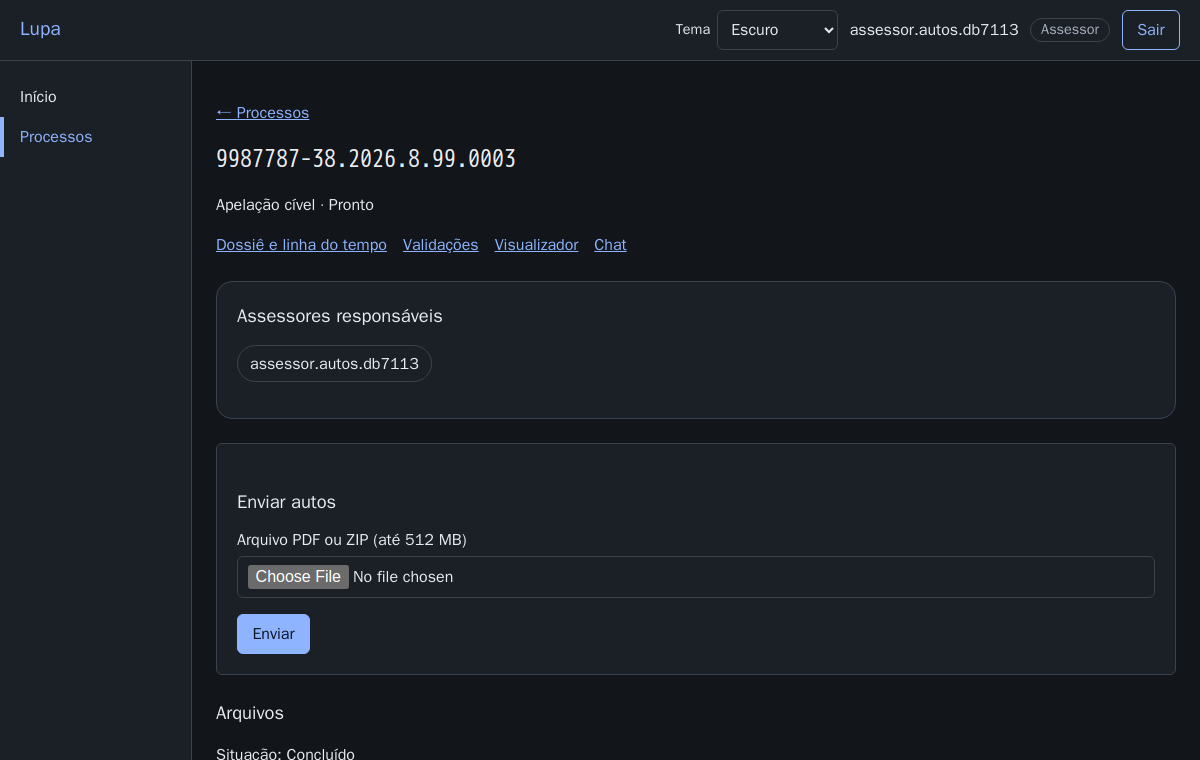
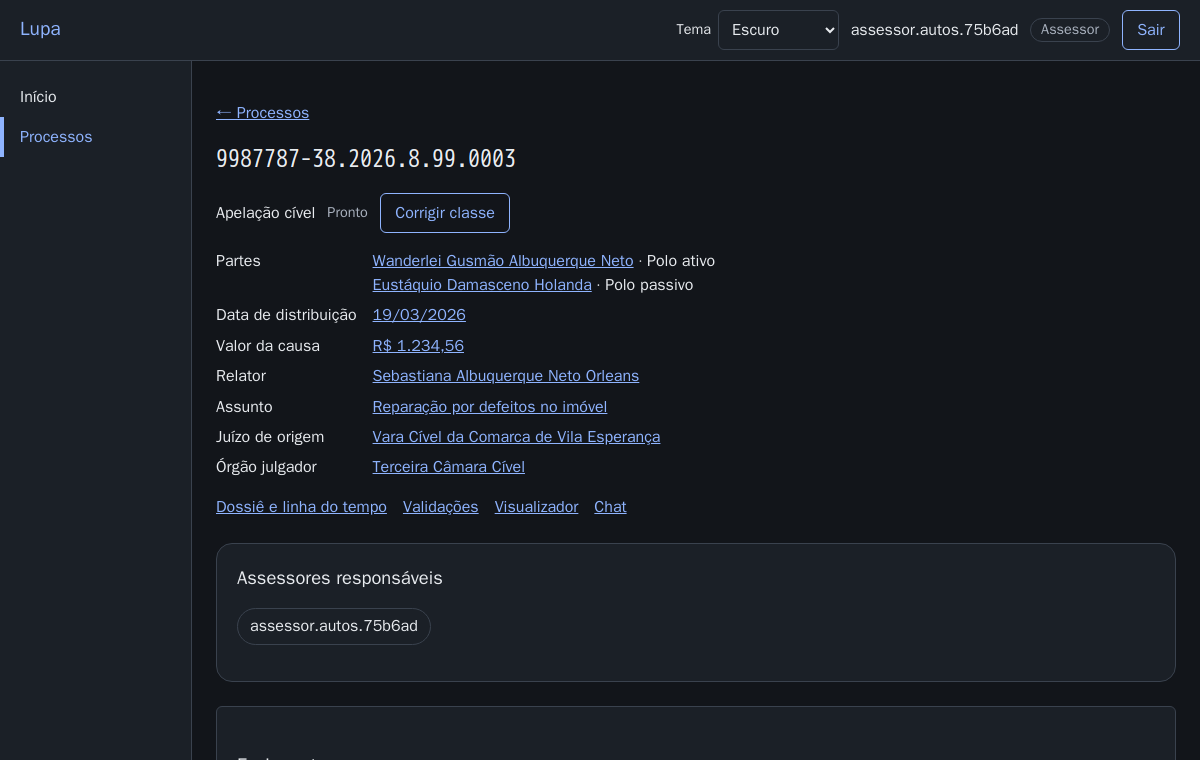
T8.7 Documenta o cadastro pelo arquivo e atualiza as capturas

diff --git a/docs/planos/plano_cadastro_pelo_arquivo.md b/docs/planos/plano_cadastro_pelo_arquivo.md
@@ -1,6 +1,6 @@
 # Plano — cadastro do processo pelo arquivo
 
-15 de novembro de 2026 · Estado: **aguardando aprovação** · Atende a
+15 de novembro de 2026 · Estado: **executado** · Atende a
 [especificação da 0.2](../especificacao/0.2/especificacao.md): RF-PRO-01, RF-PRO-06, RF-ING-01,
 RF-ING-02, RF-ING-04, RF-FAT-01, RF-FAT-04.
 
@@ -50,7 +50,7 @@ As colunas novas de `v_processo` entram no fim, por `CREATE OR REPLACE VIEW`.
 | `intranet/web/e2e/testes/processos.spec.ts`, `acessibilidade.spec.ts`, `seguranca.spec.ts`, `intranet/web/e2e/capturas.spec.ts` | cadastro pelo envio |
 | `docs/guias/guia-assessor.md`, `docs/imagens/processos.png`, `docs/imagens/processo.png` | passo 2 e capturas |
 | `docs/sistema/ingestao.md`, `docs/sistema/modelo-de-dados.md`, `docs/sistema/front.md`, `docs/sistema/sinteticos.md`, `docs/arquitetura.md` | comportamento novo |
-| `docs/decisoes/registro.md` | D1 a D12 |
+| `docs/decisoes/registro.md` | D1 a D14 |
 | `docs/adr/0017-cadastro-pelo-arquivo.md`, `docs/adr/README.md` | ADR novo, ligado ao 0003 |
 | `docs/planos/plano_0.2_execucao.md` | A3 passa a remeter a este plano para o envio que cria processo |
 | `docs/planos/tarefas_0.2.md` | fase 8 com as tarefas deste plano |
@@ -239,43 +239,43 @@ As colunas novas de `v_processo` entram no fim, por `CREATE OR REPLACE VIEW`.
 
 Cada teste cita o requisito na docstring. U: unitário; I: integração.
 
-- [ ] I: `v0002` sobe e desce; `v_processo` devolve criador da primeira linha e os campos de
+- [x] I: `v0002` sobe e desce; `v_processo` devolve criador da primeira linha e os campos de
   correção (RF-PRO-06).
-- [ ] U: A2 com rótulo, com número único sem rótulo, com dois números sem rótulo, com dígito
+- [x] U: A2 com rótulo, com número único sem rótulo, com dois números sem rótulo, com dígito
   inválido e sem número (RF-PRO-01).
-- [ ] U: A2 reconhece as cinco classes, recusa "apelação criminal" e texto fora da tabela
+- [x] U: A2 reconhece as cinco classes, recusa "apelação criminal" e texto fora da tabela
   (RF-PRO-01).
-- [ ] U: A1 com executor injetado: PDF, ZIP, tipo desconhecido, motivo de quarentena e tempo
+- [x] U: A1 com executor injetado: PDF, ZIP, tipo desconhecido, motivo de quarentena e tempo
   esgotado (RF-PRO-01, RF-ING-02).
-- [ ] I: o subprocesso de A1 falha ao abrir conexão e não recebe variável com credencial
+- [x] I: o subprocesso de A1 falha ao abrir conexão e não recebe variável com credencial
   (RF-ING-04).
-- [ ] I: envio de autos sintéticos de cada classe cria o processo com número, classe, criador,
+- [x] I: envio de autos sintéticos de cada classe cria o processo com número, classe, criador,
   responsável e arquivo `recebido`, com `processo_criado` e `upload` na auditoria (RF-PRO-01,
   RF-ING-01).
-- [ ] I: capa sem classe devolve 422 com `faltando`; o reenvio com `classe` cria o processo;
+- [x] I: capa sem classe devolve 422 com `faltando`; o reenvio com `classe` cria o processo;
   entre os dois nada foi gravado (RF-PRO-01).
-- [ ] I: número informado com dígito inválido é recusado (RF-PRO-01).
-- [ ] I: número já cadastrado anexa o arquivo, mantém a classe e devolve `processo_criado`
+- [x] I: número informado com dígito inválido é recusado (RF-PRO-01).
+- [x] I: número já cadastrado anexa o arquivo, mantém a classe e devolve `processo_criado`
   falso; os mesmos bytes devolvem 200 com `duplicado` (RF-PRO-01, RF-ING-01).
-- [ ] I: número de processo descartado devolve 409 (RF-PRO-01).
-- [ ] I: PDF com senha devolve 422 `senha` e nenhuma linha nova em hub, link ou satélite
+- [x] I: número de processo descartado devolve 409 (RF-PRO-01).
+- [x] I: PDF com senha devolve 422 `senha` e nenhuma linha nova em hub, link ou satélite
   (RF-PRO-01, RF-ING-02).
-- [ ] I: dois envios simultâneos do mesmo número novo resultam em um processo e dois arquivos
+- [x] I: dois envios simultâneos do mesmo número novo resultam em um processo e dois arquivos
   (RF-PRO-01).
-- [ ] I: `POST /processos` devolve 405 (RF-PRO-01).
-- [ ] U: `capa.extrair` gera os seis candidatos com o intervalo do valor; valor e data
+- [x] I: `POST /processos` devolve 405 (RF-PRO-01).
+- [x] U: `capa.extrair` gera os seis candidatos com o intervalo do valor; valor e data
   inválidos não geram candidato (RF-FAT-01).
-- [ ] I: ingestão do sintético de referência grava os seis fatos do gabarito com evidência que
+- [x] I: ingestão do sintético de referência grava os seis fatos do gabarito com evidência que
   confere, e `data_distribuicao` aparece na linha do tempo (RF-FAT-01).
-- [ ] I: fato da capa corrigido continua vigente depois do reprocessamento (RF-FAT-03,
+- [x] I: fato da capa corrigido continua vigente depois do reprocessamento (RF-FAT-03,
   RF-ING-08).
-- [ ] I: correção de classe grava a linha, mantém o criador, refaz os achados para a nova classe
+- [x] I: correção de classe grava a linha, mantém o criador, refaz os achados para a nova classe
   e registra `classe_corrigida`; classe igual não grava; descartado devolve 409 (RF-PRO-06).
-- [ ] U (front): `NovoProcesso` envia, mostra o complemento só dos campos que faltam e reenvia
+- [x] U (front): `NovoProcesso` envia, mostra o complemento só dos campos que faltam e reenvia
   o mesmo arquivo; `enviarProcesso` monta a query (RF-PRO-01).
-- [ ] U (front): `CabecalhoProcesso` mostra partes com polo, os seis dados e a classe anterior
+- [x] U (front): `CabecalhoProcesso` mostra partes com polo, os seis dados e a classe anterior
   (RF-FAT-04, RF-PRO-06).
-- [ ] Medição dos sintéticos dentro da meta do RNF-02 com os seis tipos novos.
+- [x] Medição dos sintéticos dentro da meta do RNF-02 com os seis tipos novos.
 
 Revisão manual: fluxo E2E do Playwright (`processos.spec.ts`), capturas dos guias e conferência
 da tela no navegador.
@@ -285,3 +285,5 @@ da tela no navegador.
 1. Commits em `feat/versao-0.2`, um por tarefa.
 2. `docker compose up -d --build --wait`.
 3. `docker compose exec api alembic -c pipeline/src/lupa_pipeline/migrations/alembic.ini upgrade head`.
+
+Os resultados dos testes e da medição dos autos sintéticos estão na [fase 8 do registro de tarefas](tarefas_0.2.md#fase-8--cadastro-pelo-arquivo).

diff --git a/docs/planos/tarefas_0.2.md b/docs/planos/tarefas_0.2.md
@@ -463,15 +463,24 @@ Execução do [plano de cadastro pelo arquivo](plano_cadastro_pelo_arquivo.md).
 - [x] **T8.1** Ampliar os tipos de fato e preservar o criador no histórico de classe. RF-PRO-06, RF-FAT-01.
   - `pytest pipeline/tests/dominio/test_migracao_0002.py --no-cov` no worker com PostgreSQL. A asserção dos seis novos tipos falhou antes da revisão. Com a migração, 1 teste passou, incluindo subida, duas correções, descida e nova subida.
 - [x] **T8.2** Identificar número CNJ e classe no PDF ou ZIP em sandbox. RF-PRO-01, RF-ING-02, RF-ING-04.
-  - `pytest pipeline/tests/ingestao/test_identificacao.py --no-cov` no worker. No vermelho, 18 falhas e 5 testes passaram. No verde, os 23 passaram, inclusive a sonda de rede e ambiente executada no subprocesso.
+  - `pytest pipeline/tests/ingestao/test_identificacao.py --no-cov` no worker. No vermelho, 18 falhas e 5 testes passaram. Os 23 casos iniciais passaram, inclusive a sonda de rede e ambiente executada no subprocesso. Outros três casos reproduziram falhas de associação do CNJ ao rótulo e passaram após a correção, totalizando 26.
 - [x] **T8.3** Criar ou localizar o processo pelo upload, tratar o complemento e retirar o cadastro manual. RF-PRO-01, RF-ING-01, RF-ING-02.
   - O primeiro teste de envio falhou com 405 em vez de 201. Na API, `pytest intranet/api/tests/api/test_cadastro_arquivo.py intranet/api/tests/auditoria/test_eventos_reais.py --no-cov` passou nos 15 casos com integração exigida. Dois envios simultâneos com o mesmo CNJ criaram um processo e dois arquivos.
 - [x] **T8.4** Extrair, medir e exibir os fatos da capa com evidência nos autos sintéticos. RF-FAT-01, RF-FAT-03, RF-ING-08, RNF-02.
   - O gabarito tinha zero fatos na capa e o dossiê não tinha o campo `dados_capa`. Com as marcas de evidência e o extrator, `pytest pipeline/tests/sinteticos --no-cov` passou nos 106 testes. `test_capa.py` e `test_reprocessamento.py` conferem os offsets, a janela de páginas, a coexistência de fontes e a preservação da revisão humana.
   - `pytest pipeline/tests/ingestao/test_calibracao.py --no-cov` mediu o PDF liso, o PDF com índice e o ZIP. Com a semente 88, o recall dos eventos e das fronteiras foi de 100% nos três formatos e a precisão de datas atingiu a meta de 99%. Na API, `test_ponta_a_ponta.py` confronta as cinco classes com os gabaritos no PostgreSQL e no MinIO.
+  - O PDF liso da semente de referência `semente_01`, regenerado com a nova capa, terminou em 797,46 s para 198 páginas. O banco registrou os seis tipos da capa. A medição encontrou 18 de 18 eventos, 8 de 8 datas (100% de precisão e recall), 44 de 44 fronteiras e tipos de peça e zero evidências divergentes do trecho literal.
+  - O teste de injeção do dossiê marcou os novos valores da capa como texto livre. Após exigir correspondência de cada valor com o gabarito, o fato vigente, a página, o intervalo e o hash da evidência, `pytest intranet/api/tests/agente/test_injecao_agente.py -k dossie_do_processo_sintetico --no-cov` passou com PostgreSQL e MinIO. A varredura de texto livre continua a cobrir os demais campos.
 - [x] **T8.5** Corrigir a classe, preservar a autoria e recalcular os achados. RF-PRO-06.
   - `pytest intranet/api/tests/api/test_classe.py --no-cov` respondeu 404 antes da rota. Os três casos passaram com a nova rota, inclusive os dois papéis, repetição sem nova linha e recusa após descarte. A bateria com as regressões de lista, responsáveis, abertura e upload passou nos 28 testes.
 - [x] **T8.6** Enviar os autos pela interface, completar a identificação e conferir a ficha no cabeçalho. RF-PRO-01, RF-PRO-06, RF-FAT-04.
   - Os quatro casos de `cadastro.test.ts` falharam antes da implementação e passaram com o envio pelo mesmo `File` e o cabeçalho com evidências. `docker build --target verificacao intranet/web` passou em lint, formatação, tipagem e 75 testes.
-  - `bash intranet/web/scripts/e2e.sh` passou nos 36 testes em Chromium, incluindo complemento, cadastro automático, anexo, duplicata e correção de classe. O envio de 500 MB levou 11,1 s. O axe percorreu dez telas em cada tema com zero violações graves ou críticas.
-- [ ] **T8.7** Atualizar arquitetura, decisão, guia, capturas e documentação técnica. RF-DOC-01, RF-DOC-03.
+  - `bash intranet/web/scripts/e2e.sh` passou nos 36 testes em Chromium, incluindo complemento, cadastro automático, anexo, duplicata e correção de classe. Na repetição com a imagem final, os 36 testes passaram em 3,7 min. O envio de 500 MB levou 13,7 s e o maior intervalo entre quadros foi de 17 ms. O axe percorreu dez telas em cada tema com zero violações graves ou críticas.
+- [x] **T8.7** Atualizar arquitetura, decisão, guia, capturas e documentação técnica. RF-DOC-01, RF-DOC-03.
+  - `bash intranet/web/scripts/capturas.sh --grep 'cadastro pelo arquivo e cabeçalho do processo' --no-deps` gerou as duas imagens do guia em uma stack sintética. A revisão visual conferiu o seletor de arquivo, o botão de correção de classe, as partes com polo e os seis campos com links. A conferência encontrou os 102 destinos de links locais nos 15 documentos alterados.
+
+### Verificação integrada da fase 8
+
+- `docker compose up -d --build --wait` subiu os sete serviços de desenvolvimento. A aplicação de `alembic upgrade head` no contêiner da API e a consulta `alembic current` confirmaram `0002 (head)`.
+- No `scripts/verificar.sh`, Ruff, formatação e mypy estrito passaram nos dois pacotes. A pipeline passou nos 728 testes com 95,69% de cobertura, e a API passou nos 272 selecionados com 98,25%. A configuração padrão da API exclui três testes marcados como `carga` ou `llm`.
+- `LUPA_EXIGIR_CABECALHOS=1 bash scripts/verificar.sh` terminou com código 0. Passaram os seis testes de ingestão ponta a ponta, o build do front, os cabeçalhos de quatro rotas e o isolamento de rede do worker. O corpus detectou 16 de 16 injeções textuais, com zero falsos positivos. Nos 16 cenários do agente com cliente roteirizado, houve zero vazamentos e zero instruções embutidas executadas. A suíte Playwright rodou separadamente pelo comando de T8.6.

diff --git a/docs/sistema/ingestao.md b/docs/sistema/ingestao.md
@@ -1,6 +1,10 @@
 # Ingestão de autos
 
-A API recebe `POST /api/processos/{id}/arquivos`. O arquivo novo recebe um identificador e HTTP 201. O reenvio dos mesmos bytes no mesmo processo devolve o identificador existente e HTTP 200. O limite de upload vem de `LUPA_UPLOAD_LIMITE_BYTES`. O storage guarda o original cifrado. A view `v_fila_ingestao` seleciona as pendências.
+A API recebe o corpo de `POST /api/processos/arquivos?nome=...` em um temporário e calcula o SHA-256 durante o envio. O sandbox inspeciona o PDF e extrai as primeiras páginas. Em ZIP, inventaria as entradas e lê o primeiro PDF. A janela padrão é de três páginas e o limite de tempo é de 30 segundos (`LUPA_IDENTIFICACAO_PAGINAS` e `LUPA_IDENTIFICACAO_TEMPO_SEGUNDOS`).
+
+Na primeira página, um número CNJ válido após um rótulo tem precedência. Se a página inicial não tiver rótulo de número, um único CNJ válido distinto nas páginas lidas identifica o processo. Um rótulo com número inválido exige complemento, mesmo que haja um CNJ válido em uma referência a outro processo. A classe vem da linha rotulada na capa. Uma identificação incompleta devolve HTTP 422 com o que foi lido, os campos faltantes e os números encontrados. O cliente reenvia os bytes com o complemento na query. O temporário é removido ao fim de cada tentativa. A recusa estrutural também devolve 422, inclusive quando o cliente forneceu os dois campos.
+
+A API serializa o cadastro pelo número. Cria o processo ou anexa o arquivo ao processo existente, preservando a classe corrente. Um processo descartado devolve 409. Para enviar diretamente ao processo aberto, use `POST /api/processos/{id}/arquivos`. Em ambos os fluxos, o arquivo novo recebe HTTP 201 e o reenvio dos mesmos bytes no mesmo processo, HTTP 200 com o identificador existente. O limite de envio vem de `LUPA_UPLOAD_LIMITE_BYTES`. O storage guarda o original cifrado e a view `v_fila_ingestao` seleciona as pendências.
 
 ## Processamento e retomada
 
@@ -11,6 +15,8 @@ O inventário distingue ZIP por peça, PDF com marcadores ou índice e PDF liso.
 Cada página tem texto normalizado, origem da extração, blocos, coordenadas e sinalizações. O roteador seleciona texto nativo, OCR ou combinação para páginas híbridas. O saneamento identifica, entre outros sinais, texto fora da página, instrução em metadado e texto com baixa visibilidade. A revisão humana pode abrir o original. Os lotes já concluídos e suas páginas são recuperados após interrupção.
 
 ## Peças, partes e fatos
+
+Nas primeiras páginas de cada arquivo o worker procura relator, órgão julgador, assunto, valor da causa, juízo de origem e distribuição. Cada fato é comum ao processo e tem evidência no intervalo do valor. O valor da causa é decimal em texto e a distribuição é data ISO. A ficha pode mostrar valores divergentes com suas respectivas fontes. A versão `civel-0.3.0` dos padrões aciona a reextração dos arquivos já processados.
 
 O índice reúne as páginas de cada peça. A classificação combina títulos, fórmulas e assinaturas das peças cíveis. Uma reclassificação manual fica no histórico e orienta o reprocessamento. Os extratores usam qualificações da petição, da decisão e do recurso para reconhecer as partes. Cada fato contém o tipo, o valor, o sujeito, a confiança e a origem. Antes de armazenar o fato, o extrator confere a igualdade entre o trecho e o intervalo do texto normalizado.
 

diff --git a/docs/arquitetura.md b/docs/arquitetura.md
@@ -14,10 +14,10 @@ O Lupa atende um gabinete cível de segundo grau. O assessor e o desembargador c
 
 ## Percurso de um arquivo
 
-1. O usuário cadastra o número e a classe. A API valida o dígito CNJ e informa o processo existente se o número se repetir.
-2. Ao receber PDF ou ZIP, a API calcula o SHA-256, deduplica por processo e arquivo, cifra os bytes e registra a recepção. A view da fila passa a apresentar o arquivo.
+1. O usuário envia o PDF ou ZIP. Ainda no temporário, a API executa a inspeção e lê a capa em subprocessos com limites, ambiente filtrado e sockets bloqueados. Valida o dígito CNJ e identifica a classe pelo rótulo. Se faltar identificação, o navegador reenvia o mesmo arquivo com o complemento. Uma recusa estrutural encerra a tentativa.
+2. Sob trava transacional pelo número CNJ, a API localiza o processo ou o cria com sua chave de dados. Deduplica pelo SHA-256 dos bytes, cifra o arquivo com a chave do processo e registra a recepção e a auditoria. A view da fila passa a apresentar o arquivo.
 3. Um worker mantém o lock de sessão na conexão física e consome a fila em ordem de recebimento. O ambiente de parsing limita memória, CPU e tempo do subprocesso. A extração combina texto nativo e OCR conforme a página, guarda evidências e marca conteúdo suspeito.
-4. A classificação identifica as peças. Os extratores localizam partes e fatos e conferem os offsets contra o texto da página. O catálogo seleciona as regras pela classe e avalia os fatos de cada recorrente.
+4. A classificação identifica as peças. Os extratores localizam partes e fatos, inclusive os seis campos da capa, e conferem os offsets contra o texto da página. O catálogo seleciona as regras pela classe e avalia os fatos de cada recorrente. Uma correção de classe preserva o criador e recalcula os achados na mesma transação.
 5. No dossiê e no visualizador, a pessoa abre a evidência para conferir a página. Uma correção grava outra versão do fato e recalcula os achados. Uma reexecução respeita a classificação manual e os fatos confirmados ou corrigidos.
 6. O chat consulta o processo aberto e verifica as citações da resposta antes de mostrá-las. O registro de auditoria guarda atos, identificadores e metadados de uso. O texto dos autos e das conversas tem armazenamento cifrado próprio.
 

diff --git a/docs/sistema/modelo-de-dados.md b/docs/sistema/modelo-de-dados.md
@@ -11,6 +11,8 @@ A revisão Alembic `v0001_data_vault` instala o esquema da 0.2 em uma base nova.
 
 ## Vigência e histórico
 
+A revisão `0002` amplia o CHECK de `hub_fato.tipo` com os seis dados da capa. Em `sat_processo_dados`, cada linha guarda a classe e o usuário que a registrou. A view `v_processo` lê o criador da primeira linha e a classe da última. Quando há correção, expõe a classe penúltima, a chave e o identificador de quem corrigiu e o instante da alteração.
+
 O banco gera `load_dts` com seu relógio. Para o mesmo pai e subchave, o trigger garante a ordem crescente mesmo perante recuo do relógio. As views de leitura apresentam a versão atual. `v_fato_historico` e `v_achado_historico` sustentam a consulta de versões anteriores na interface. A correção preserva o identificador do fato e registra a evidência vigente. Um fato só pode ser criado com evidência de origem.
 
 O sujeito de fato ou achado é o hex da chave da parte. O valor vazio designa informação comum ao processo. O nome normalizado da parte identifica o hub por HMAC com a DEK do processo. A identidade e os dados sensíveis residem em satélites cifrados. O banco recusa alterações e remoções diretas nos registros protegidos. O descarte segue a função com privilégios específicos e elimina o conteúdo de um único processo.
@@ -20,5 +22,7 @@ O sujeito de fato ou achado é o hex da chave da parte. O valor vazio designa in
 `link_processo_responsavel` e sua vigência alimentam `v_responsavel`. O desembargador atribui ou remove assessores ativos. O cadastro do gabinete permite a ambas as funções consultar o acervo. A responsabilidade indica a distribuição de trabalho.
 
 ## Migração
+
+O downgrade para `0001` restaura a definição anterior da view e do CHECK. Se houver fatos de um dos seis tipos novos, o PostgreSQL recusa o CHECK anterior e desfaz a transação, preservando os dados.
 
 A partir da raiz, use `make migrate` contra o banco da 0.2. O piloto 0.1 tem esquema e cadeia de revisões próprios. O registro histórico de T1.7 conserva o resultado de seus testes de responsáveis, e T3.6 verifica o vínculo atual. [Histórico das tarefas](../planos/tarefas_0.2.md).

diff --git a/docs/adr/0017-cadastro-pelo-arquivo.md b/docs/adr/0017-cadastro-pelo-arquivo.md
@@ -1,0 +1,31 @@
+# ADR 0017 — Cadastro do processo pelo arquivo
+
+| Status | Data | Responsável |
+| --- | --- | --- |
+| Aceito | 2026-11-15 | Projeto Lupa |
+
+## Contexto
+
+O número CNJ compõe a identidade do arquivo, das páginas e dos fatos. O armazenamento do original usa a chave de dados do processo. O cadastro precisa identificar o processo antes do lacre.
+
+## Restrições
+
+A leitura da capa ocorre durante o envio de PDF ou ZIP. Os parsers trabalham com limites de memória, CPU e tempo, em subprocessos sem credenciais e com criação de sockets bloqueada. A API tem acesso a redes diferentes das do worker. A especificação admite esse isolamento para a identificação.
+
+## Alternativas consideradas
+
+O cadastro manual exigia que o usuário transcrevesse número e classe em todos os envios. Adiar a identificação integralmente para o worker exigiria outro local para guardar o original enquanto a chave do processo fosse desconhecida.
+
+## Decisão
+
+A API inspeciona o arquivo temporário e lê as primeiras páginas com o sandbox existente. Quando falta identificação, devolve os dados lidos e o navegador reenvia o mesmo arquivo com o complemento. Uma trava transacional pelo número serializa a criação. Um processo existente conserva sua classe e sua chave. O worker extrai os seis campos da capa como fatos com evidência. As correções de classe entram no histórico do processo e acionam as validações na mesma transação.
+
+## Consequências
+
+O primeiro envio depende do tempo de leitura da capa. Uma tentativa incompleta transfere os bytes novamente. O servidor remove o temporário ao fim de cada tentativa. A inspeção pode recusar o arquivo antes da criação do processo. A fila e o lacre passam a receber os arquivos já associados ao processo identificado.
+
+## Fontes
+
+- [Especificação da 0.2, decisões 29 a 39](../especificacao/0.2/especificacao.md)
+- [Plano e algoritmos A1 a A6](../planos/plano_cadastro_pelo_arquivo.md)
+- [ADR 0003, sandbox de parsing](0003-sandbox-de-parsing-por-subprocesso.md)

diff --git a/docs/decisoes/registro.md b/docs/decisoes/registro.md
@@ -801,6 +801,27 @@ para a 0.2, mantém a consulta das versões anteriores pela interface. A execuç
 o resultado histórico de T1.7 na suíte da 0.1. A distribuição de responsáveis passa a ser
 verificada na 0.2 pelo vínculo, pela view e pelas rotas atuais. [Tarefas e testes](../planos/tarefas_0.2.md).
 
+### Cadastro pelo arquivo — 15/11/2026
+
+| Decisão | Regra que passa a valer |
+| --- | --- |
+| D1 | A inspeção e a leitura inicial ocorrem no temporário da API, antes do lacre por processo. |
+| D2 | O CNJ rotulado da página inicial tem precedência. Sem ele, a identificação exige um único número válido distinto nas páginas lidas. |
+| D3 | A classe vem do campo rotulado e da tabela de variantes cíveis. |
+| D4 | O envio incompleto devolve o que falta. O navegador reenvia o mesmo arquivo e os valores informados prevalecem. |
+| D5 | O cadastro recusa arquivo inválido antes da gravação dos autos, inclusive com complemento. |
+| D6 | Número já cadastrado recebe o arquivo e conserva a classe corrente. Descarte impede o envio. |
+| D7 | Uma trava transacional específica serializa a criação pelo número. |
+| D8 | O envio dos autos substitui o cadastro manual sem arquivo. |
+| D9 | Os seis valores da capa são fatos com sujeito vazio e evidência literal. A data e a moeda têm valores normalizados. |
+| D10 | A extração de capa respeita a janela de páginas e as regras de ajuizamento continuam restritas às peças de marco. |
+| D11 | A correção de classe grava nova linha, mantém o criador e recalcula os achados sob trava. |
+| D12 | Rótulos e classes aceitos ficam no catálogo versionado de eventos. |
+| D13 | O cabeçalho usa a ficha do dossiê para exibir partes e dados da capa. |
+| D14 | A versão do catálogo aciona o reprocessamento dos arquivos já ingeridos. |
+
+[Plano com regras e algoritmos](../planos/plano_cadastro_pelo_arquivo.md) · [ADR 0017](../adr/0017-cadastro-pelo-arquivo.md).
+
 ## Resultado das revisões
 
 | Revisão | Resultado |

diff --git a/docs/sistema/front.md b/docs/sistema/front.md
@@ -2,7 +2,9 @@
 
 A aplicação SvelteKit em `intranet/web/` é servida pelo Caddy sob HTTPS. As chamadas para `/api` usam a mesma origem e a sessão autenticada. O proxy acrescenta os cabeçalhos de segurança e as rotas protegidas validam a sessão e a permissão novamente na API.
 
-O menu oferece processos aos dois papéis. A tela de cadastro exige número CNJ e classe processual. Dentro de um processo, a pessoa acessa os arquivos, responsáveis, dossiê, índice de peças, fatos e achados e chat. A evidência abre a página do arquivo com a localização disponível. Fatos e resultados anteriores podem ser consultados no histórico.
+Os dois papéis podem cadastrar um processo. Em **Novo processo**, a pessoa envia um PDF ou ZIP. A tela exibe o progresso e aguarda a identificação da capa. Se faltar número ou classe, oferece os números encontrados e solicita os campos necessários. O reenvio reutiliza o arquivo selecionado. A tela do processo informa se houve criação, anexo ou duplicidade.
+
+O cabeçalho consulta o dossiê para mostrar partes, polos e dados da capa com suas fontes. **Corrigir classe** registra a alteração e recalcula os achados. O processo dá acesso aos arquivos, responsáveis, dossiê, índice de peças, histórico de fatos e achados e chat. A evidência abre a página do arquivo com a localização disponível.
 
 A gestão de assessores e a auditoria ficam no menu do desembargador. Quem administra o acervo pode distribuir responsáveis, restabelecer acesso e revisar intercorrências. Os testes de componentes usam Vitest, e os fluxos pela interface, acessibilidade e capturas usam Playwright. [Guia de contribuição](../../CONTRIBUTING.md).
 

diff --git a/docs/sistema/sinteticos.md b/docs/sistema/sinteticos.md
@@ -10,4 +10,6 @@ python pipeline/scripts/gerar_autos.py --destino /tmp/autos processo --semente 1
 
 O gabarito ao lado dos autos descreve a classe, a composição e o texto de cada folha, os intervalos das peças e as partes, fatos, sujeitos e resultados esperados. Cada trecho marcado deve coincidir com os offsets no texto visível da página. A numeração física de cada PDF é mapeada à folha de conteúdo, inclusive quando o índice desloca o primeiro documento.
 
+A capa traz número CNJ, classe e seis fatos com o intervalo exato de seu valor. O gabarito conserva o texto da evidência e o valor esperado, inclusive a conversão de `R$ 1.234,56` para `1234.56` e da data de distribuição para ISO. A medição de datas inclui a distribuição.
+
 O conjunto de referência contém dez sementes de 200 a 5.000 páginas. O corpus de injeção usa uma variante para cada vetor e uma com todos. Os números CNJ estão na faixa fictícia e o gerador de CPF cria dígitos verificadores inválidos. A medição confronta o índice, os tipos de página e peça, os eventos e as datas com o gabarito. Para os comandos dos verificadores, consulte [CONTRIBUTING.md](../../CONTRIBUTING.md).

diff --git a/CHANGELOG.md b/CHANGELOG.md
@@ -16,7 +16,8 @@ O formato segue o [Keep a Changelog 1.1.0](https://keepachangelog.com/pt-BR/1.1.
 
 ## [Não publicado]
 
-Nada ainda.
+- **Cadastro de processos.** Envie o PDF ou ZIP dos autos para identificar número CNJ e classe. Se faltar informação, complete o campo pedido e reenvie. Um novo arquivo de um número já cadastrado entra no mesmo processo. A rota de cadastro manual foi substituída por `POST /api/processos/arquivos`.
+- **Ficha do processo.** Partes, polos, relator, órgão julgador, assunto, valor da causa, juízo de origem e distribuição aparecem com suas fontes. É possível corrigir a classe, consultar a alteração e conferir os achados recalculados.
 
 ## [0.2.0] - 2026-11-14
 

diff --git a/docs/README.md b/docs/README.md
@@ -24,7 +24,7 @@
 
 - [Especificação da 0.2](especificacao/0.2/especificacao.md).
 - [Plano da 0.2](planos/plano_0.2.md), [algoritmos e checklist](planos/plano_0.2_execucao.md) e [tarefas com evidências](planos/tarefas_0.2.md).
-- [Plano do cadastro pelo arquivo](planos/plano_cadastro_pelo_arquivo.md), aguardando aprovação.
+- [Plano do cadastro pelo arquivo](planos/plano_cadastro_pelo_arquivo.md) e [ADR 0017 sobre identificação no envio](adr/0017-cadastro-pelo-arquivo.md).
 - [ADRs](adr/README.md) e [registro das decisões](decisoes/registro.md).
 - [Defesas contra instruções presentes nos autos](especificacao/prompt-injection.md) e [decisão sobre o object storage](decisoes/object-storage.md).
 
